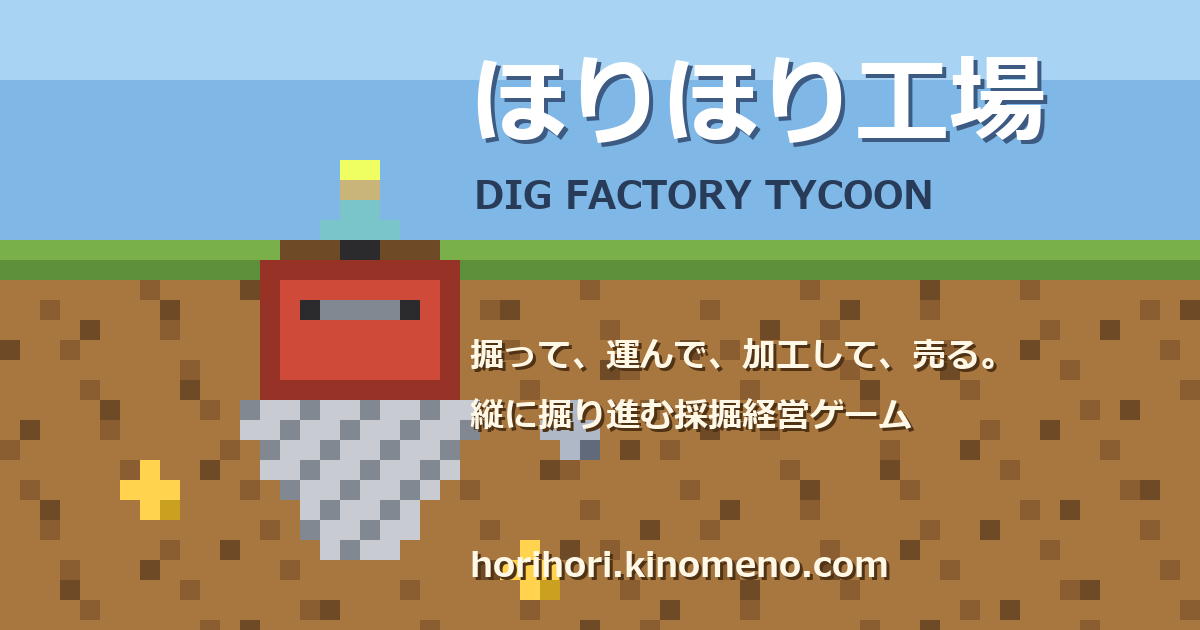
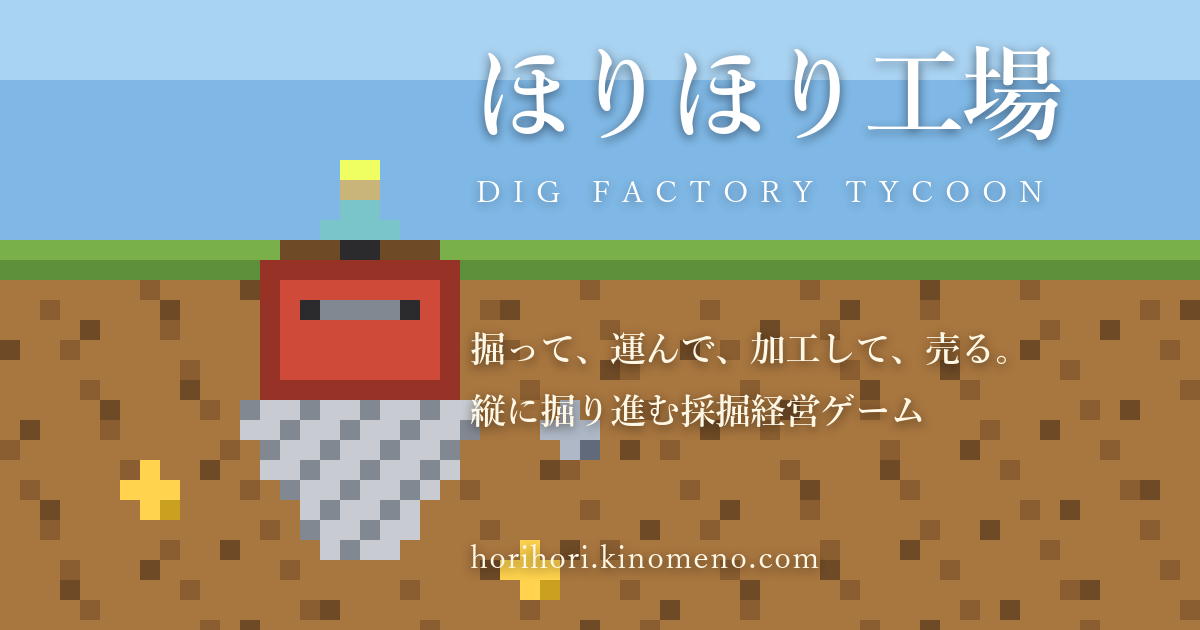
v1.85 ヘッダーのゲーム名の字間を詰めて色を薄く・SNS用画像の題名を明朝に

diff --git a/index.html b/index.html
@@ -31,7 +31,7 @@
 <link rel="preconnect" href="https://fonts.googleapis.com">
 <link rel="preconnect" href="https://fonts.gstatic.com" crossorigin>
 <link rel="stylesheet" href="https://fonts.googleapis.com/css2?family=Shippori+Mincho+B1:wght@500;600&display=swap">
-<link rel="stylesheet" href="style.css?v=1.84">
+<link rel="stylesheet" href="style.css?v=1.85">
 <!-- 広告（準備だけ。まだ動かしていない）：Google の H5 ゲーム広告を使う時に、下のコメントを外し、ca-pub-XXXX を自分の番号にする。main.js の AD_ON も true に
 <script async data-ad-client="ca-pub-8328461906614341" data-adbreak-test="on" src="https://pagead2.googlesyndication.com/pagead/js/adsbygoogle.js" crossorigin="anonymous"></script>
 <script>window.adsbygoogle = window.adsbygoogle || []; var adBreak = adConfig = function (o) { adsbygoogle.push(o); }; adConfig({ preloadAdBreaks: 'on', sound: 'on' });</script>
@@ -309,7 +309,7 @@
 
 <script>/* 共通のアクセス計測（開いた数・どこから来たか・案内を終えた数）。本番のアドレスで、管理モードでない時だけ */
 (function () { try { if (location.hostname !== 'horihori.kinomeno.com' || localStorage.getItem('dfAdminMode') === '1' || /[?&]dev/.test(location.search)) return; var e = document.createElement('script'); e.src = 'js/kn-track.js?v=1'; e.setAttribute('data-kn-app', 'horihori'); document.head.appendChild(e); } catch (e) { } })();</script>
-<script src="sprites.js?v=1.84"></script>
-<script src="main.js?v=1.84"></script>
+<script src="sprites.js?v=1.85"></script>
+<script src="main.js?v=1.85"></script>
 </body>
 </html>

diff --git a/style.css b/style.css
@@ -59,7 +59,7 @@ body {
 #hdr.c1 .hrow { gap: 6px; }
 #hdr.c2 .lg { display: none; } #hdr.c2 .sm { display: inline; }
 #hdr.c3 { padding: 2px 6px; }
-#hdr.c3 .title { font-size: 13px; letter-spacing: .04em; }
+#hdr.c3 .title { font-size: 13px; }   /* v1.85：字間は詰めたまま（下の明朝の規則） */
 #hdr.c3 .stat { font-size: 11px; } #hdr.c3 .stat b { font-size: 13px; }
 #hdr.c3 .hrow { gap: 5px; } #hdr.c3 #timeGroup { gap: 3px; }
 #hdr.c3 button { padding: 5px 6px; font-size: 12px; } #hdr.c3 button.sq { width: 26px; }
@@ -645,7 +645,7 @@ body.hideUI #hdr, body.hideUI #dash, body.hideUI #catBar, body.hideUI #menuBtn, 
 #moneyHud .mfold { font-style: normal; font-size: 9px; color: #8a8a90; margin-right: -2px; transition: transform .15s; }
 body:not(.moneyFold) #moneyHud .mfold { transform: rotate(180deg); }
 body.moneyFold #goalHud, body.moneyFold #monthHud, body.moneyFold #aiHud, body.moneyFold #aiTime { display: none !important; }
-#hdr .title { font-family: 'Shippori Mincho B1', serif; font-weight: 600; letter-spacing: .02em; }   /* v1.84：タイトルに合わせる */
+#hdr .title, #hdr.c3 .title { font-family: 'Shippori Mincho B1', serif; font-weight: 600; letter-spacing: -.03em; color: #5d6470; }   /* v1.84：タイトルに合わせる・v1.85：字間を詰めて、色を少し薄く */
 #tutGoal { top: calc(var(--hdr) + 36px) !important; }   /* 資金の行の下（重ならない） */
 .modal.space { transition: opacity 3s ease !important; }   /* 26：最後の絵はもっとゆっくり出てくる */
 /* v1.53 断面図の吹き出し（▽は話す人の頭へ） */

diff --git a/main.js b/main.js
@@ -1,11 +1,11 @@
-// ほりほり工場 / Dig Factory Tycoon v1.84（作業フォルダ名：採掘ゲーム）
+// ほりほり工場 / Dig Factory Tycoon v1.85（作業フォルダ名：採掘ゲーム）
 // 画面をマス目に割り、地形・設備を描く。資源だけは別レイヤーで、マスに縛られず自由に動く。
 // 横は固定の列数、縦（深さ）は無制限。拡大縮小・上下移動できる。
 // 地上の事務所から作業員がドリル・機械へ歩いて行って操作する。
 (() => {
 'use strict';
 
-const VERSION = '1.84';
+const VERSION = '1.85';
 const NOTE_URL = 'https://note.com/kinomeno/n/n8ecbf906a59a';   // 紹介記事
 const X_URL = '';   // キノメノのX（決まったら入れる。空の間はXのボタンを出さない）
 // テスト用の管理メニュー：実機テストのため、当面は公開版でも出す（キノメノ指示 2026-11-23）。

diff --git a/tools/make_icons.py b/tools/make_icons.py
@@ -66,18 +66,32 @@ for y in range(0, 4):
 pad.resize((512, 512), Image.NEAREST).save(os.path.join(out, 'icon-maskable-512.png'))
 
 # SNS用（1200×630）：横長の場面（20倍）。空に題名、土に説明
+# v1.85：題名はエレガントな明朝（游明朝・字間を詰める）。影はやわらかくぼかす（ゲームのタイトルと合わせる）
+from PIL import ImageFilter
 W, H = 1200, 630
-og = scene(32, 60, 2).resize((1200, 640), Image.NEAREST).crop((0, 0, W, H))
-d = ImageDraw.Draw(og)
+og = scene(32, 60, 2).resize((1200, 640), Image.NEAREST).crop((0, 0, W, H)).convert('RGBA')
 font_dir = 'C:/Windows/Fonts'
 def font(name, size):
     try: return ImageFont.truetype(os.path.join(font_dir, name), size)
     except Exception: return ImageFont.load_default()
-f1, f2, f3 = font('meiryob.ttc', 96), font('meiryob.ttc', 38), font('meiryob.ttc', 34)
+f1, f2, f3 = font('yumindb.ttf', 104), font('yumin.ttf', 30), font('yumindb.ttf', 36)
+def text_w(t, f, track): return sum(f.getlength(ch) for ch in t) + track * (len(t) - 1)
+def draw_tracked(dr, xy, t, f, fill, track):   # 1字ずつ置いて字間を変える（マイナスで詰める）
+    x, y = xy
+    for ch in t:
+        dr.text((x, y), ch, font=f, fill=fill); x += f.getlength(ch) + track
+def soft(t_items):   # やわらかい影（ぼかした層）→ 白い字
+    sh = Image.new('RGBA', og.size, (0, 0, 0, 0)); ds = ImageDraw.Draw(sh)
+    for (xy, t, f, track, col, scol) in t_items: draw_tracked(ds, (xy[0], xy[1] + 3), t, f, scol, track)
+    og.alpha_composite(sh.filter(ImageFilter.GaussianBlur(5)))
+    d = ImageDraw.Draw(og)
+    for (xy, t, f, track, col, scol) in t_items: draw_tracked(d, xy, t, f, col, track)
 x0 = 470
-d.text((x0 + 4, 34 + 4), 'ほりほり工場', font=f1, fill=(60, 90, 130)); d.text((x0, 34), 'ほりほり工場', font=f1, fill=(255, 255, 255))
-d.text((x0 + 4, 168), 'DIG FACTORY TYCOON', font=f2, fill=(40, 60, 90))
-for t, y in [('掘って、運んで、加工して、売る。', 330), ('縦に掘り進む採掘経営ゲーム', 390), ('horihori.kinomeno.com', 540)]:
-    d.text((x0 + 3, y + 3), t, font=f3, fill=(80, 50, 20)); d.text((x0, y), t, font=f3, fill=(255, 248, 230))
+soft([((x0, 40), 'ほりほり工場', f1, -6, (255, 255, 255, 255), (20, 40, 70, 150)),
+      ((x0 + 6, 176), 'DIG FACTORY TYCOON', f2, 12, (255, 255, 255, 235), (20, 40, 70, 110))])
+soft([((x0, 330), '掘って、運んで、加工して、売る。', f3, -1, (255, 248, 230, 255), (60, 35, 10, 170)),
+      ((x0, 392), '縦に掘り進む採掘経営ゲーム', f3, -1, (255, 248, 230, 255), (60, 35, 10, 170)),
+      ((x0, 540), 'horihori.kinomeno.com', font('yumin.ttf', 32), 1, (255, 248, 230, 255), (60, 35, 10, 170))])
+og = og.convert('RGB')
 og.save(os.path.join(out, 'og.png'))
 print('ok')
